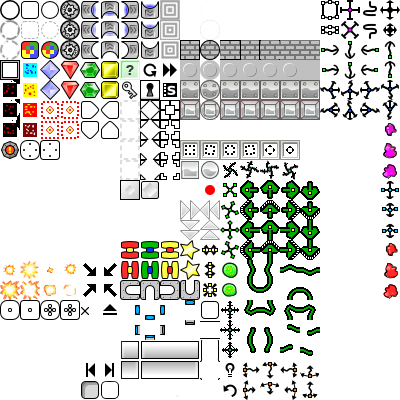
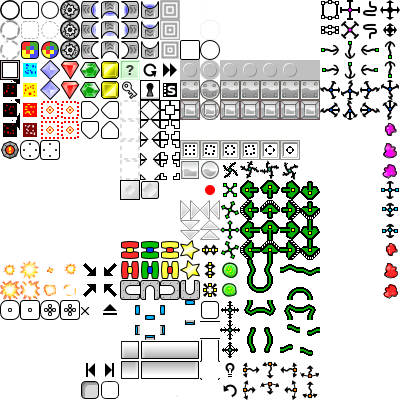
levels.xye: Some color updates. default skin, options, xye, xyedit: allow different default colors and sprite colors for each wall type.
git-svn-id: https://svn.code.sf.net/p/xye/code@114 dbc23497-bb88-4a8f-aa66-d0e9199f70ee

Changed region(s): [[0.45, 0.09, 0.81, 0.15]]

diff --git a/src/xye.cpp b/src/xye.cpp
@@ -286,7 +286,8 @@ int game::Init(const char* levelfile)
         RecolorCache::savecolor(&options::BFColor[i]);
         RecolorCache::savecolor(&options::BKColor[i]);
     }
-    RecolorCache::savecolor(&options::WallColor);
+    for (int i=0; i<wall::MAX_VARIATIONS; i++)
+        RecolorCache::savecolor(&options::WallColor[i]);
 
     RecolorCache::savecolor(&PlayerColor);
 
@@ -3117,13 +3118,13 @@ bool roboxye::Loop(bool* died)
 
 
 /**Class wall**/
-const int WALL_KINDS = 6;
-SDL_Color wall::DefaultColor;
+SDL_Color wall::DefaultColor[wall::MAX_VARIATIONS];
 unsigned char wall::defkind=0;
 
 void wall::ResetDefaults()
 {
-    DefaultColor=options::WallColor;
+    for (int i=0; i<MAX_VARIATIONS; i++)
+        DefaultColor[i] = options::WallColor[i];
     defkind=0;
 }
 
@@ -3145,7 +3146,6 @@ void wall_convertColor(Uint8 sprite, Uint8 wanted, Uint8 &c)
         x = std::min<int>(x,255);
         c = (Uint8)(x);
     }
-    
 }
 
 
@@ -3153,34 +3153,41 @@ void wall::ChangeColor(Uint8 nR, Uint8 nG, Uint8 nB, bool multiply)
 {
     if(multiply)
     {
-        wall_multiplyColor( options::WallColor.r, nR, R);
-        wall_multiplyColor( options::WallColor.g, nG, G);
-        wall_multiplyColor( options::WallColor.b, nB, B);
+        wall_multiplyColor( options::WallColor[kind].r, nR, R);
+        wall_multiplyColor( options::WallColor[kind].g, nG, G);
+        wall_multiplyColor( options::WallColor[kind].b, nB, B);
     }
     else
     {
-        wall_convertColor( options::WallSpriteColor.r, nR, R);
-        wall_convertColor( options::WallSpriteColor.g, nG, G);
-        wall_convertColor( options::WallSpriteColor.b, nB, B);
+        wall_convertColor( options::WallSpriteColor[kind].r, nR, R);
+        wall_convertColor( options::WallSpriteColor[kind].g, nG, G);
+        wall_convertColor( options::WallSpriteColor[kind].b, nB, B);
     }
 }
 
-void wall::SetDefaultColor(SDL_Color cc, bool multiply)
+void wall::SetDefaultColor(SDL_Color cc, bool multiply, int var)
 {
     if(multiply)
     {
-        wall_multiplyColor( options::WallColor.r, cc.r, DefaultColor.r);
-        wall_multiplyColor( options::WallColor.g, cc.g, DefaultColor.g);
-        wall_multiplyColor( options::WallColor.b, cc.b, DefaultColor.b);
+        wall_multiplyColor( options::WallColor[var].r, cc.r, DefaultColor[var].r);
+        wall_multiplyColor( options::WallColor[var].g, cc.g, DefaultColor[var].g);
+        wall_multiplyColor( options::WallColor[var].b, cc.b, DefaultColor[var].b);
     }
     else
     {
-        wall_convertColor( options::WallSpriteColor.r, cc.r, DefaultColor.r);
-        wall_convertColor( options::WallSpriteColor.g, cc.g, DefaultColor.g);
-        wall_convertColor( options::WallSpriteColor.b, cc.b, DefaultColor.b);
+        wall_convertColor( options::WallSpriteColor[var].r, cc.r, DefaultColor[var].r);
+        wall_convertColor( options::WallSpriteColor[var].g, cc.g, DefaultColor[var].g);
+        wall_convertColor( options::WallSpriteColor[var].b, cc.b, DefaultColor[var].b);
     }
-    RecolorCache::savecolor(&DefaultColor);
-    
+    RecolorCache::savecolor(&DefaultColor[var]);
+}
+
+
+void wall::SetDefaultColor(SDL_Color cc, bool multiply)
+{
+    SetDefaultColor(cc,multiply, 0);
+    for (int i=1;i<MAX_VARIATIONS; i++)
+        DefaultColor[i] = DefaultColor[0];
 }
 
 
@@ -3188,18 +3195,19 @@ void wall::SetDefaultColor(SDL_Color cc, bool multiply)
 
 void wall::SetDefaultType(signed int def)
 {
-    defkind= def>5?5:def<0?0:def;
+    defkind= def>=MAX_VARIATIONS? 0:def<0?0:def;
 }
 
 wall::wall(square* sq,unsigned char t)
 {
      round7=round1=round3=round9=false;
     type=OT_WALL;
+    if(t>=MAX_VARIATIONS) t=0;
     ChangeKind(t);
 
-    R=DefaultColor.r;
-    G=DefaultColor.g;
-    B=DefaultColor.b;
+    R=DefaultColor[t].r;
+    G=DefaultColor[t].g;
+    B=DefaultColor[t].b;
     ObjectConstruct(sq);
 }
 
@@ -3208,17 +3216,22 @@ wall::wall(square* sq)
      round7=round1=round3=round9=false;
     type=OT_WALL;
     kind=defkind;
-    R=DefaultColor.r;
-    G=DefaultColor.g;
-    B=DefaultColor.b;
+    R=DefaultColor[defkind].r;
+    G=DefaultColor[defkind].g;
+    B=DefaultColor[defkind].b;
     ObjectConstruct(sq);
+
+
 }
 
 
 void wall::ChangeKind(unsigned char t)
 {
     kind=t;
-    if(kind>=WALL_KINDS) kind=0;
+    if(kind>=MAX_VARIATIONS) kind=0;
+    R=DefaultColor[kind].r;
+    G=DefaultColor[kind].g;
+    B=DefaultColor[kind].b;
 }
 
 bool wall::containsRoundCorner()
@@ -3232,7 +3245,6 @@ void wall::Draw(unsigned int x, unsigned int y)
     int sz2=sz/2;
     Sint16 ty;
     ty=sz*(kind);
-
     D.SetColors(R,G,B,255);
     
     char px=this->x, py=this->y;

diff --git a/src/options.cpp b/src/options.cpp
@@ -66,8 +66,8 @@ int options::GridSize;
 unsigned int options::lvnum;
 string options::ExecutablePath;
 
-SDL_Color options::WallColor;
-SDL_Color options::WallSpriteColor;
+SDL_Color options::WallColor      [XYE_WALL_VARIATIONS];
+SDL_Color options::WallSpriteColor[XYE_WALL_VARIATIONS];
 
 SDL_Color options::BFColor[4];
 SDL_Color options::BKColor[4];
@@ -454,18 +454,36 @@ bool TryWallColorOptions(TiXmlElement* skn)
     TiXmlElement* tem=skn->FirstChildElement("color");
     while (tem!=NULL)
     {
-
+        int variation = -1;
+        tem->QueryIntAttribute("variation", &variation);
         const char* e1 = tem->Attribute("type");
         SDL_Color * c=NULL;
-        if((e1!=NULL) && (string(e1)=="WALL") ) c=&options::WallColor;
-        else if( (e1!=NULL) && (string(e1)=="WALL_SPRITE") ) c=&options::WallSpriteColor;
+        int n = 1;
+        
+        if( (e1!=NULL) && (string(e1)=="WALL") )
+        {
+            c=options::WallColor;
+            if(variation==-1) n=XYE_WALL_VARIATIONS;
+            else c+=variation;
+        }
+        else if( (e1!=NULL) && (string(e1)=="WALL_SPRITE") )
+        {
+            c=options::WallSpriteColor;
+            if(variation==-1) n=XYE_WALL_VARIATIONS;
+            else c+=variation;
+        }
         if(c!=NULL)
         {
+            for (int j=0; j<n; j++)
+            {
+                
                 string quo;
                 int i=0;
-                quo=tem->Attribute("red");TryS2I(quo,i);c->r=i;
-                quo=tem->Attribute("green");TryS2I(quo,i);c->g=i;
-                quo=tem->Attribute("blue");TryS2I(quo,i);c->b=i;
+                quo=tem->Attribute("red");TryS2I(quo,i);c[j].r=i;
+                quo=tem->Attribute("green");TryS2I(quo,i);c[j].g=i;
+                quo=tem->Attribute("blue");TryS2I(quo,i);c[j].b=i;
+                c[j].unused=255;
+            }
         }
         tem=tem->NextSiblingElement("color");
     }
@@ -524,9 +542,12 @@ void options::LoadColors(TiXmlElement* skn)
     cname[B_BLUE]='B';
     cname[B_GREEN]='G';
     cname[B_RED]='R';
-    WallSpriteColor.r  =WallSpriteColor.g =WallSpriteColor.b = 192;
-    WallSpriteColor.unused = 255;
-    WallColor.r =WallColor.g =WallColor.b = WallColor.unused = 255;
+    for (int i=0; i<XYE_WALL_VARIATIONS; i++)
+    {
+        WallSpriteColor[i].r  =WallSpriteColor[i].g =WallSpriteColor[i].b = 192;
+        WallSpriteColor[i].unused = 255;
+        WallColor[i].r =WallColor[i].g =WallColor[i].b = WallColor[i].unused = 255;
+    }
     TryWallColorOptions(skn);
     for (i=0;i<4;i++)
     {

diff --git a/src/xye.h b/src/xye.h
@@ -315,6 +315,7 @@ class roboxye : public obj
 class wall : public obj
 {
  private:
+     
      unsigned int color;
 
      bool round7;
@@ -329,9 +330,9 @@ class wall : public obj
      Uint8 B;
      
      bool containsRoundCorner();
-     static SDL_Color DefaultColor;
+     static SDL_Color DefaultColor[6];
  public:
-
+     static const int MAX_VARIATIONS = 6;
      wall(square* sq,unsigned char t);
      wall(square* sq);
      bool ResistsFire();
@@ -344,6 +345,7 @@ class wall : public obj
      bool Loop(bool* died);
      bool HasBlockColor(blockcolor bc);
      static void SetDefaultColor(SDL_Color cc, bool multiply=true);
+     static void SetDefaultColor(SDL_Color cc, bool multiply, int var);
      static void SetDefaultType(signed int def);
      static void ResetDefaults();
      static wall* find(char sx, char sy, unsigned char kind = 6);

diff --git a/src/xyedit.cpp b/src/xyedit.cpp
@@ -1438,7 +1438,7 @@ void editorboard::drawWallInBoard(SDL_Surface*target,int ox,int oy, int x, int y
     o.r3mem=(Uint8)(r3);
 
     DaVinci D(editor::sprites,0,0,0,0);
-    D.SetColors( options::WallColor, 255);
+    D.SetColors( &options::WallColor[variation], 255);
     Sint16 sz2=sz/2;
     Sint16 ty;
     ty=sz*(variation);
@@ -1718,6 +1718,7 @@ void drawWall( SDL_Surface * target, int x, int y, bool round, int variation)
     if(round) tx=10;
     else tx=9;
     DaVinci D(editor::sprites,tx*sz,ty*sz,sz,sz);
+    D.SetColors( &options::WallColor[variation], 255);
     D.Draw(target,x,y);
 }
 

diff --git a/src/options.h b/src/options.h
@@ -3,6 +3,8 @@
 
 using std::string;
 
+const int XYE_WALL_VARIATIONS = 6; 
+
 class options
 {
  private:
@@ -70,8 +72,8 @@ class options
 
     inline static bool UndoEnabled() {return enundo; }
 
-    static SDL_Color WallColor;
-    static SDL_Color WallSpriteColor;
+    static SDL_Color WallColor      [XYE_WALL_VARIATIONS];
+    static SDL_Color WallSpriteColor[XYE_WALL_VARIATIONS];
     
     static SDL_Color BFColor[4];
     static SDL_Color BKColor[4];
